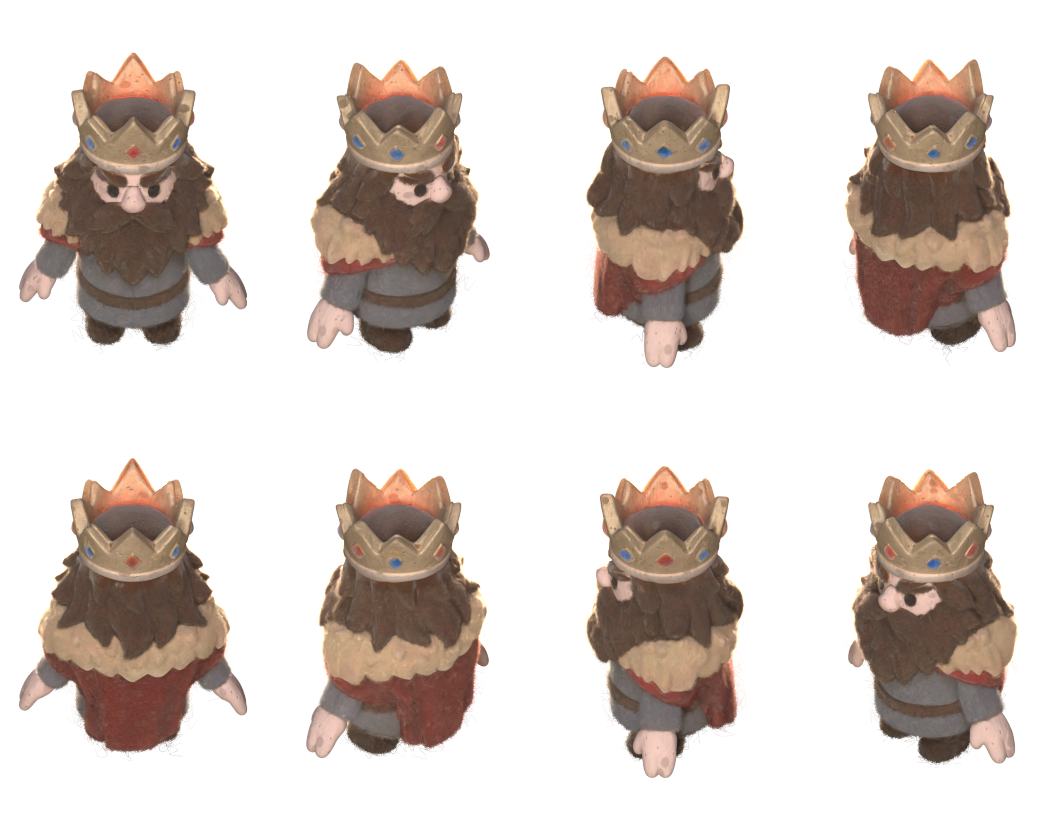
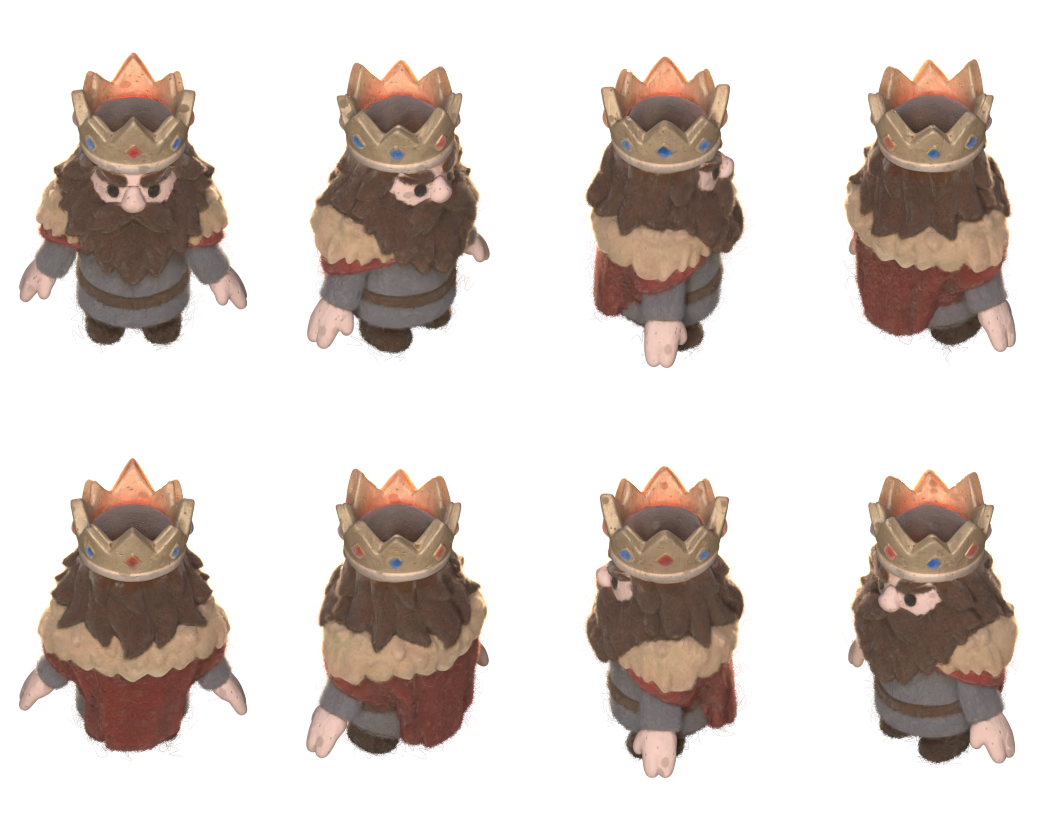
King sprite: dimmer back glow, richer colour
Wesley: "too bright" meant the back glow, not the body; the goal is saturation, not darkness.
- Re-baked king8 with KING_RIM 2250 -> 1100 (felt fibres only, crown spot unchanged so the
  crown keeps its orange inner glow). Over-white light around him on c3 is down ~60%.
  Bloom is not the source (kglow=0 / nobloom barely change it).
- Sprite shader saturation lift, judged after bloom + grade + LUT: kSatHi 2.2 on lit coloured
  areas, kSatLo 1.1 elsewhere, hue and max channel kept so value doesn't move. Dev flags
  ?ksat= ?klow= ?kexp= ?kcon= ?kglow= tune it live.

Patch saturation, c3 in game (target = r16 "A: as is"):
          beard collar shoulder tunic cheek crown
 target   .62   .97*   .66      .14   .47   .72
 before   .60   .65    .56      .22   .39   .52
 after    .67   .70    .71      .23   .44   .70
Value is unchanged (beard .41, shoulder .86) and matches the r17 Cycles play frame, so the
body was not darkened; the target is a darker close-up. *The game's collar patch mixes in
tunic pixels; the collar itself reads about .85.

diff --git a/src/diorama/KingSprite.tsx b/src/diorama/KingSprite.tsx
@@ -35,19 +35,40 @@ void main(){
 }`;
 const frag = /* glsl */ `
 uniform sampler2D map; uniform sampler2D glow; uniform float invExpo; uniform float glowK; uniform vec2 tile; uniform vec2 tiles;
+uniform float kExp; uniform float kSatHi; uniform float kSatLo; uniform float kCon; uniform float kGlow;
 varying vec2 vUv;
 void main(){
   vec2 uv = (tile + vUv) / tiles;
   vec4 c = texture2D(map, uv);
   if (c.a < 0.004) discard;
   vec3 g = texture2D(glow, uv).rgb;
-  gl_FragColor = vec4(c.rgb * invExpo + g * g * glowK, c.a);
+  vec3 col = c.rgb * invExpo * kExp;
+  // Richer colour at the same value: chroma scaled about luma, kSatHi where he is coloured and lit (collar,
+  // shoulders, crown, skin), kSatLo where he is greyish (tunic) or dark (beard), then put back to the max
+  // channel it had so he gets no brighter.
+  float mx = max(col.r, max(col.g, col.b)), mn = min(col.r, min(col.g, col.b));
+  float sat = mx > 0.0 ? (mx - mn) / mx : 0.0;
+  float L = dot(col, vec3(0.2126, 0.7152, 0.0722));
+  float w = smoothstep(0.45, 0.75, sat) * smoothstep(0.15, 0.4, mx);  // coloured and lit: not the dark beard
+  vec3 o = max(vec3(L) + (col - L) * mix(kSatLo, kSatHi, w), 0.0);
+  float mo = max(o.r, max(o.g, o.b));
+  if (mo > 0.0) o *= mx / mo;
+  o = pow(max(o, 0.0) / 0.18, vec3(kCon)) * 0.18;  // contrast about mid grey (linear)
+  gl_FragColor = vec4(o + g * g * glowK * kGlow, c.a);
 }`;
 
 // Against the set he is tested DEPTH_BIAS nearer than he is; that is more than one square, so where a card is
 // drawn (cards write CARD_STENCIL) a second pass tests him at his true depth instead.
 const DEPTH_BIAS = 2.0;  // stage units; 1.5 still let a few leaf specks through on a5/e5/c5
 export const CARD_STENCIL = 1;
+// Colour trims on the sheet, judged after bloom + grade + LUT against the r16 "A: as is" target (see the
+// patch table in the commit). Dev: `?kexp= ?ksat= ?klow= ?kcon= ?kglow=` override them to tune live.
+const TRIM = { kExp: 1, kSatHi: 2.2, kSatLo: 1.1, kCon: 1, kGlow: 1 };
+const FLAG = { kExp: "kexp", kSatHi: "ksat", kSatLo: "klow", kCon: "kcon", kGlow: "kglow" } as const;
+const trim = (k: keyof typeof TRIM) => {
+  const v = import.meta.env.DEV ? new URLSearchParams(location.search).get(FLAG[k]) : null;
+  return v === null ? TRIM[k] : +v;
+};
 const STEP = 0.2;  // a turn walks through the headings in between over this long
 const tileOf = (yaw: number, n: number) => ((Math.round(yaw / (2 * Math.PI / n)) % n) + n) % n;
 
@@ -69,6 +90,7 @@ export function KingSprite({ at, yaw = 0, onClick }: { at: [number, number]; yaw
       uniforms: {
         map: { value: map }, glow: { value: glow }, invExpo: { value: Math.pow(2, -s.exposure) }, glowK: { value: s.glowK },
         tile: { value: new THREE.Vector2() }, depthBias: { value: DEPTH_BIAS }, tiles: { value: new THREE.Vector2(...s.tiles) },
+        ...Object.fromEntries((Object.keys(TRIM) as (keyof typeof TRIM)[]).map(k => [k, { value: trim(k) }])),
       },
       stencilWrite: true, stencilRef: CARD_STENCIL, stencilFunc: THREE.NotEqualStencilFunc,
     });

diff --git a/docs/HANDOFF.md b/docs/HANDOFF.md
@@ -18,10 +18,11 @@
   slid and scaled to his square; turns step through the in-between
   headings in ~0.2 s; idle is still plus ~1% breathing. The rigged glTF
   still casts his live VSM shadow (shadow-only), and `?king=live` shows it
-  instead. Rebake: `bake_king_sprites.py` with `KING_RIM=2250
+  instead. Rebake: `bake_king_sprites.py` with `KING_RIM=1100
   KING_RIM_FIBONLY=1 RIM_PLAY=1 CROWN_RIM=2500 CROWN_EL=8.5` (rim behind
   him for the play camera on the felt only, plus a crown-only spot; the
-  haze must stay in), then `king_atlas.py`. The set's depth mesh puts
+  haze must stay in), then `king_atlas.py`. The shader lifts
+  saturation (`TRIM` in KingSprite; dev `?ksat= ?klow= ?kexp= ?kcon=`). The set's depth mesh puts
   floating leaves in front of the back wall, so the sprite is depth-tested
   2 units nearer than it is, except over cards (stencil), where true depth
   is used. Gotcha: OIIO un-premultiplies on PNG write unless
